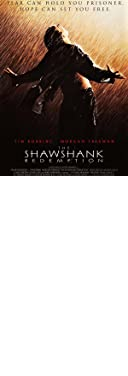
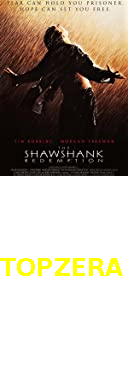
Escrevendo uma String na imagem

Changed region(s): [[0.0, 0.6729, 0.4062, 0.7314], [0.6875, 0.6729, 0.9688, 0.7314], [0.4375, 0.6729, 0.6562, 0.7314]]

diff --git a/src/GeradoraDeFigurinha.java b/src/GeradoraDeFigurinha.java
@@ -5,6 +5,9 @@ import java.io.File;
 import java.io.IOException;
 import javax.imageio.ImageIO;
 
+import java.awt.Color;
+import java.awt.Font;
+
 /**
  * @author Mateus Lannes Cunha
  * data    06/04/2023
@@ -30,7 +33,13 @@ public class GeradoraDeFigurinha {
         Graphics2D graphics = (Graphics2D) novaImagem.getGraphics();
         graphics.drawImage(imagemOriginal, 0, 0, null);
 
+        // configurar a fonte
+        var fonte = new Font(Font.SANS_SERIF, Font.BOLD, 24);
+        graphics.setColor(Color.YELLOW);
+        graphics.setFont(fonte);
+
         // escrever uma frase na nova imagem
+        graphics.drawString("TOPZERA", 0, novaAltura - 100);
 
         // escrever a nova imagem em um arquivo
         ImageIO.write(novaImagem, "png", new File("saida/figurinha.png"));
